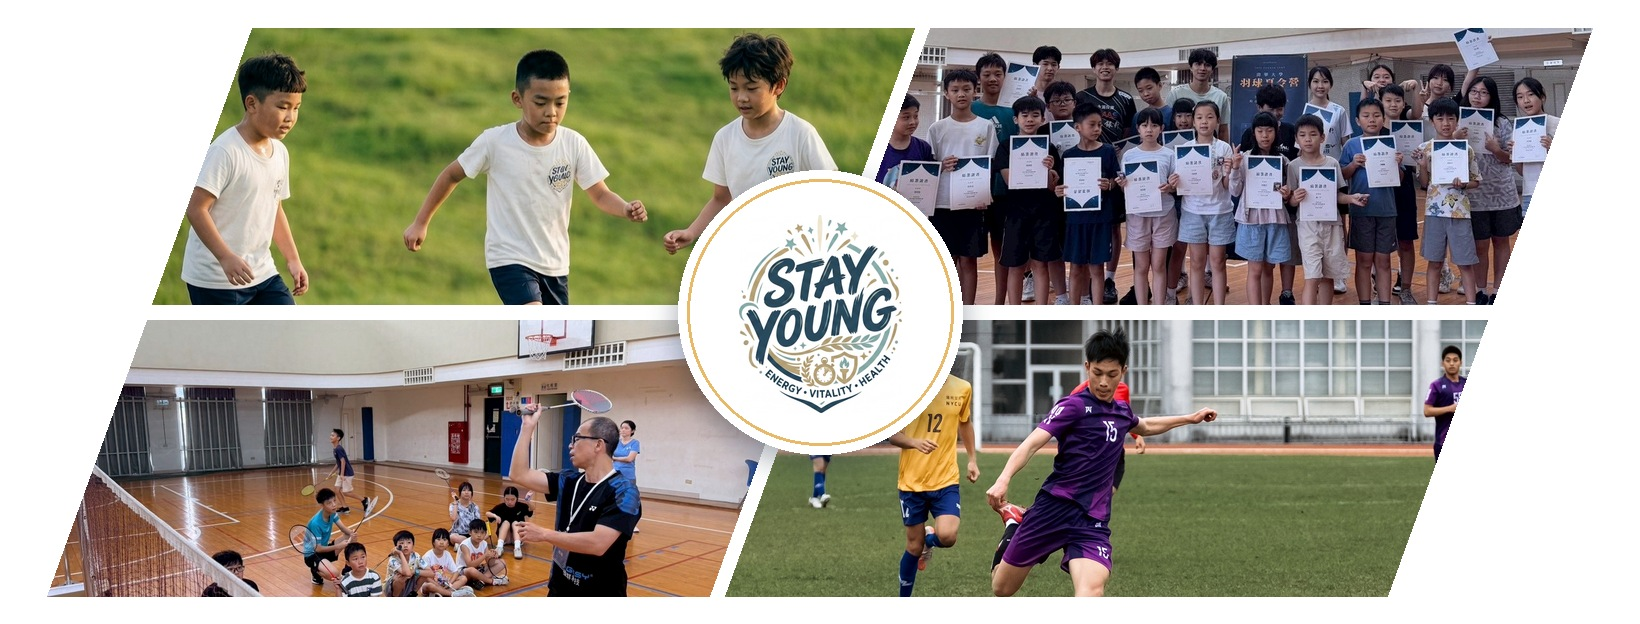
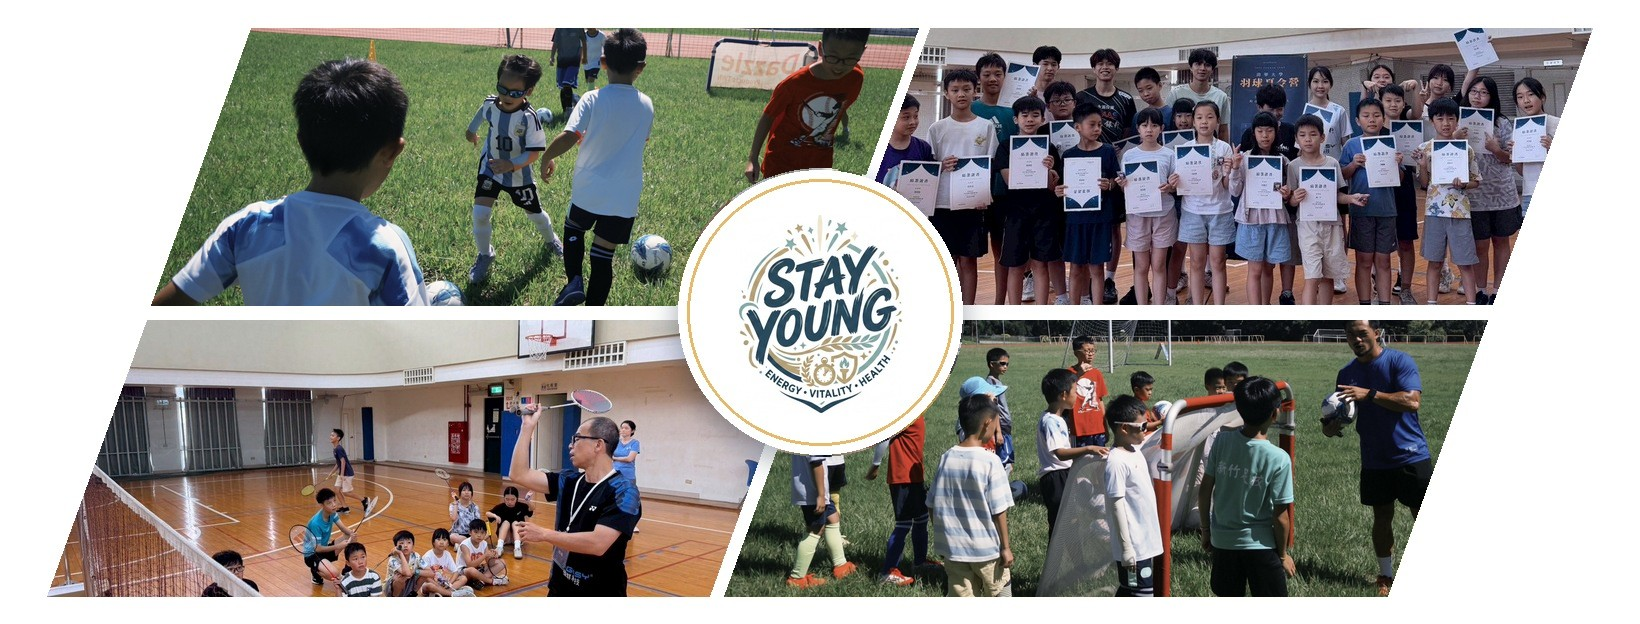
feat: 主站換真人照（營隊卡足球＋hero 四象限改 C 版）
Ryan 已核可的素材，來源 `00_共用工作區/_網站素材交接/2026-11-19/`。

1. `images/camp-football.jpg` ← 真人照（1200×900，原 1200×862）
   - CSS 背景位置 `center 50%` → `center 30%`：卡片只有 180px 高，
     50% 會切在孩子身體中段，30% 才看得到臉
   - 快取參數 `?v=3` → `?v=4`，不然回訪的人還是看到舊照片

2. `images/hero-banner-quad.jpg` ← 四象限真人版 **C**（1640×624，Ryan 17:23 選定）
   - 左上換成對戰、右下換成教練講解，其餘兩格不變
   - 快取參數 `?v=1` → `?v=2`

沒有動：`og:image`／`twitter:image`（仍指 hero-banner.jpg 插畫版，Ryan 指定）、
`.hero-banner` 的 max-width 1240px、其餘版面與文案。

驗證：三張圖與交接資料夾逐檔 SHA-256 比對一致
（camp-football `a1d25870…`／hero-banner-quad `037319a6…`）。

diff --git a/index.html b/index.html
@@ -155,7 +155,7 @@ body{font-family:'Noto Sans TC',-apple-system,"PingFang TC","Microsoft JhengHei"
   .camp.solo .camp-body{flex:1;justify-content:center}
 }
 .camp-top{padding:2.1rem 1.6rem;position:relative;overflow:hidden;min-height:180px;display:flex;flex-direction:column;justify-content:flex-end}
-.camp-top.football{background:url('images/camp-football.jpg?v=3') center 50%/cover no-repeat}
+.camp-top.football{background:url('images/camp-football.jpg?v=4') center 30%/cover no-repeat}
 .camp-top.badminton{background:url('images/camp-badminton-nthu.jpg?v=3') center 42%/cover no-repeat}
 .camp-top.badminton.ntu{background:url('images/camp-badminton-ntu.jpg?v=3') center 40%/cover no-repeat}
 .camp-emoji{font-size:2.6rem;display:block;margin-bottom:.7rem;position:relative;z-index:1;filter:drop-shadow(0 2px 6px rgba(0,0,0,.5))}
@@ -257,7 +257,7 @@ footer{background:#092b52;padding:2.1rem 1.75rem;display:flex;justify-content:sp
 
 <section class="hero" id="top">
   <div class="hero-banner">
-    <img src="images/hero-banner-quad.jpg?v=1" alt="Stay Young 運動團隊 — 足球、羽球兒童運動營隊實況" width="1640" height="624">
+    <img src="images/hero-banner-quad.jpg?v=2" alt="Stay Young 運動團隊 — 足球、羽球兒童運動營隊實況" width="1640" height="624">
   </div>
   <h1>Stay Young <em>青春無限</em></h1>
   <p class="hero-sub">專業教練帶領的兒童運動營隊。零基礎友善、小班教學，並提供 <b>08:00 至 18:00 的彈性接送</b>，配合雙薪家庭的上下班時間。</p>
